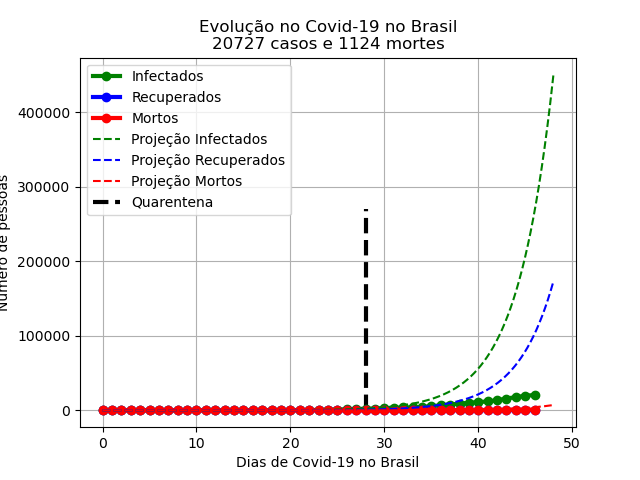
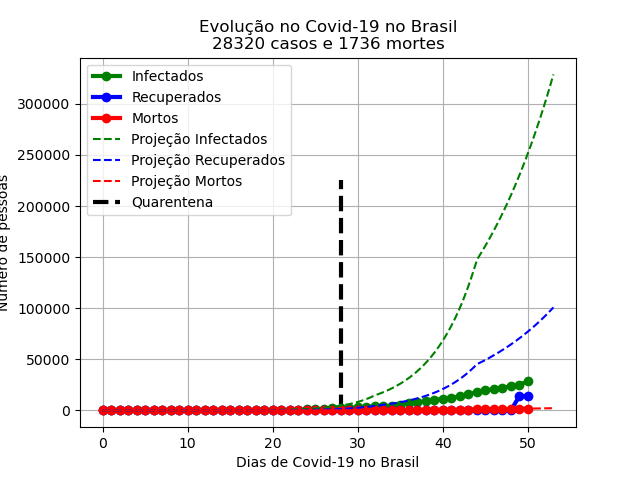
update covid

diff --git a/covid-19.html b/covid-19.html
@@ -102,14 +102,14 @@
     <div class="main">
         <h1> Acompanhe a evolução do Covid-19 no Brasil </h1>
 
-        <p>Atualização: 11/04/2020</p>
+        <p>Atualização: 15/04/2020</p>
         <p> A pandemia de coronavírus está evoluindo ao redor do mundo. No Brasil os casos estão aumentando a cada dia. Medidas de contenção estão sendo empregadas para evitar que o número de infectados aumente. Veja como está a evolução no gráfico a seguir.</p>
         
         <a class="aulaImg"><img class="aula" src="images/covid19.png"></a>
 
         <p> A projeção é feita através do modelo SIR. Eu atualizei o modelo, pois o número de casos reportados oficialmente está obviamente defasado. Não faz sentido o número de recuperados reportados com o número de mortes. Por isso, atualizei o modelo para demonstrar que, na verdade, muitas pessoas já se recuperaram no Brasil, utilizando valores referentes ao coronavirus no mundo. </p>
         <p> Note que o número de casos reportados está divergindo da projeção. Isso pode indicar que a quarentena está surtindo efeito ou que estão fazendo menos análises e confirmando um menor número de casos. </p>
-        <p> Por enquanto essas duas hipóteses não podem ser avaliadas pela falta de dados. Porém, o número de óbitos indica que o número de infectados pode estar sendo subnotificado, uma vez que o número de óbitos está mais próximo à projeção (Veja a figura a seguir). </p>
+        <p> O número de mortos estava bem próximo à projeção, porém recentemente teve uma tendência de queda. Essa queda pode ser devido às medidas de isolamento social adotadas amplamente pelo país. A diminuição do fator beta foi utilizada no modelo para ter maior representatividade na curva de mortos real, que é a que possui maior confiabilidade estatística.</p>
 
         <a class="aulaImg"><img class="aula" src="images/covid19Mortos.png"></a>
 
